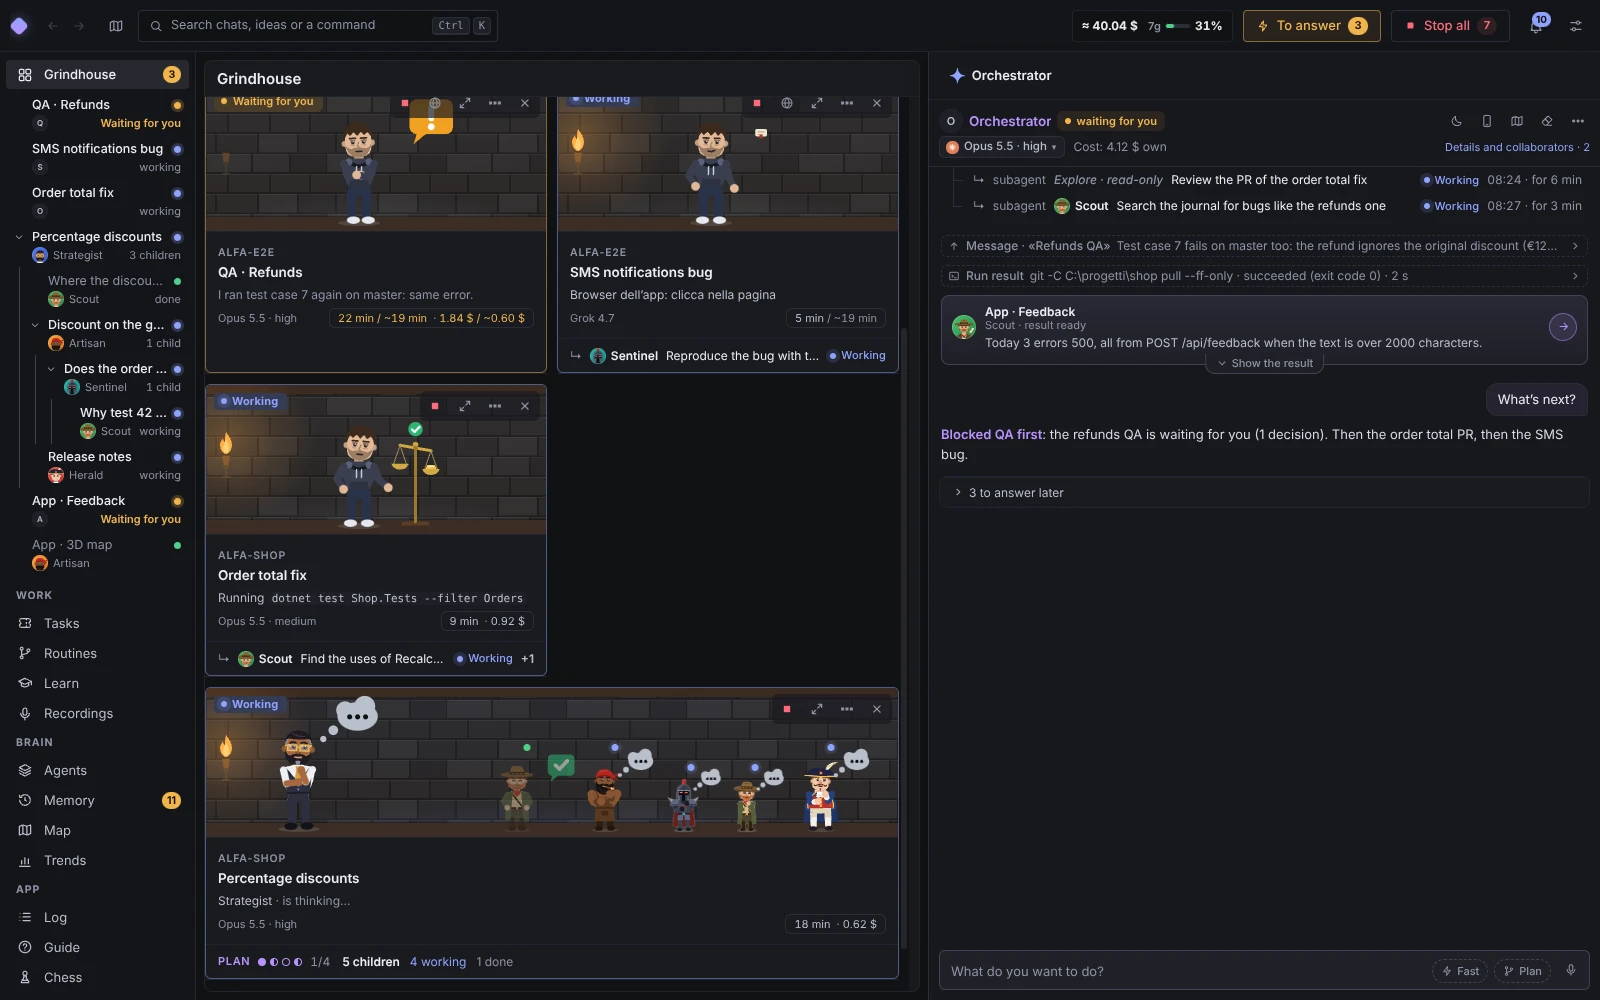
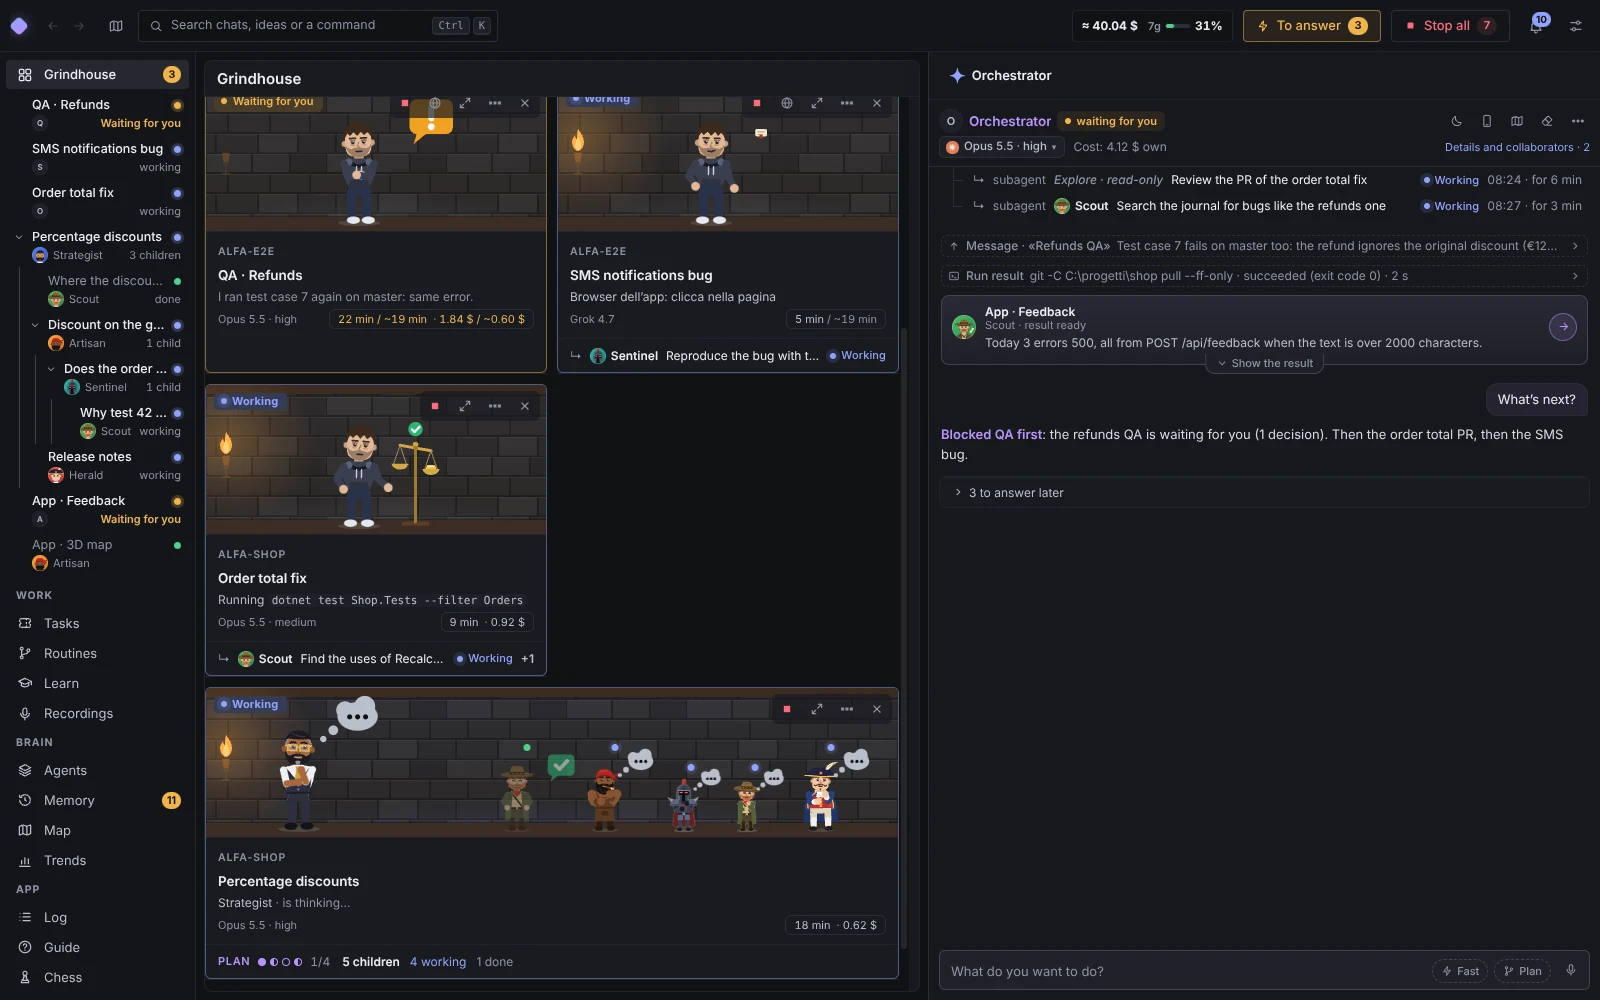
fix(grindhouse): hold a helper's busy flag and the team counts, keep the foot's buttons whole
- a helper's person no longer remounts during a short stop
- the bench foot's counts are held like each helper's state
- the auto-close notice waits while the bench holds its state
- error and queued bars keep their width in the foot, the rest ellipsize
- long name tags ellipsize; the rename input fits the plate

diff --git a/src/renderer/styles/agent-strips.css b/src/renderer/styles/agent-strips.css
@@ -300,7 +300,8 @@ html[data-hidden] .bench-stage::after { animation-play-state:paused; }
 .bench-tag { all:unset; box-sizing:border-box; position:absolute; left:50%; bottom:calc(100% - 6px); z-index:5; display:inline-flex; align-items:center; gap:6px; height:26px; padding:0 9px 0 8px; border-radius:var(--r-m);
   background:var(--surface); border:1px solid var(--border-3); box-shadow:0 6px 16px rgb(0 0 0 / .28); font:600 11.5px var(--font); color:var(--text); white-space:nowrap; cursor:pointer;
   opacity:0; pointer-events:none; transform:translate(-50%, 4px); transition:opacity 110ms var(--ease), transform 110ms var(--ease); }
-.bench-tag > span { color:var(--text-3); font-weight:500; }
+.bench-tag > b { min-width:0; max-width:150px; overflow:hidden; text-overflow:ellipsis; }
+.bench-tag > span { flex:none; color:var(--text-3); font-weight:500; }
 .bench-tag > i { font-style:normal; color:var(--accent); font-size:13px; margin-left:1px; }
 .bench-tag:hover { border-color:var(--accent); }
 .bench-tag:focus-visible { outline:2px solid var(--focus); outline-offset:1px; }
@@ -321,7 +322,7 @@ html[data-hidden] .bench-stage::after { animation-play-state:paused; }
 .bench-plate { flex:none; height:104px; box-sizing:border-box; display:flex; flex-direction:column; gap:2px; padding:10px 12px 8px; min-width:0; overflow:hidden; }
 .bench-prow { display:flex; align-items:center; gap:8px; min-width:0; height:16px; margin-bottom:2px; }
 .bench-area { flex:1; min-width:0; font:600 10.5px var(--font); letter-spacing:.08em; text-transform:uppercase; color:var(--text-3); overflow:hidden; text-overflow:ellipsis; white-space:nowrap; }
-.bench-plate .th-title { flex:none; min-width:0; max-width:100%; height:20px; font-size:13.5px; font-weight:600; margin:0; overflow:hidden; white-space:nowrap; text-overflow:ellipsis; }
+.bench-plate .th-title { flex:none; min-width:0; max-width:100%; height:24px; line-height:24px; font-size:13.5px; font-weight:600; margin:0; overflow:hidden; white-space:nowrap; text-overflow:ellipsis; }
 .bench-plate .th-title > .strip-name { display:block; max-width:100%; overflow:hidden; text-overflow:ellipsis; white-space:nowrap; }
 .bench-now { display:flex; min-width:0; height:18px; align-items:center; font-size:12px; color:var(--text-3); white-space:nowrap; overflow:hidden; }
 .bench-now > .bench-role { flex:none; color:var(--text-2); }
@@ -334,8 +335,8 @@ html[data-hidden] .bench-stage::after { animation-play-state:paused; }
 /* ── the foot: one line, the same height on every bench ── */
 .bench-foot { flex:none; height:34px; box-sizing:border-box; display:flex; align-items:center; gap:12px; padding:0 12px; min-width:0; overflow:hidden; white-space:nowrap; border-top:1px solid var(--border); font-size:12px; color:var(--text-3); }
 .bench-foot:empty { border-top-color:transparent; }
-.bench-foot > * { flex:none; min-width:0; }
-.bench-foot > :is(.queued-bar, .error-bar) { flex:1 1 auto; margin:0; padding:0 0 0 2px; height:26px; background:none; gap:8px; font-size:12px; }
+.bench-foot > * { flex:0 1 auto; min-width:0; overflow:hidden; text-overflow:ellipsis; }
+.bench-foot > :is(.queued-bar, .error-bar) { flex:none; max-width:100%; overflow:visible; margin:0; padding:0 0 0 2px; height:26px; background:none; gap:8px; font-size:12px; }
 .bench-foot > .error-bar > span { min-width:0; overflow:hidden; text-overflow:ellipsis; white-space:nowrap; }
 .bench-foot > :is(.agent-waiting, .agent-autoclose) { margin:0; padding:0; border:0; background:none; flex-wrap:nowrap; font-size:12px; }
 .bench-foot > .sp-card.is-compact { margin:0; padding:0; border:0; background:none; }

diff --git a/src/renderer/components/BenchKids.tsx b/src/renderer/components/BenchKids.tsx
@@ -55,6 +55,7 @@ function depthOf(k: ChatSummary, root: string, team: readonly ChatSummary[]): nu
 /** One helper: its person (a pat at a click), its dot, and its name tag that opens its chat. */
 function Helper({ kid, depth }: { kid: ChatSummary; depth: number }) {
   const state = useSteady(childState(kid), working, s => s === 'err' || s === 'blocked');
+  const busy = useSteady(isBusy(kid), b => b); // held like the state, or a short stop would remount the person
   const name = kid.agent?.name || kid.title, tone = kidTone(state), live = working(state) || state === 'wait';
   return <span className={`bench-helper${depth > 1 ? ' is-grand' : ''}${live ? ' is-live' : ''}`} data-testid={`bench-helper-${kid.id}`} data-child-state={state} data-depth={depth}
     onClick={e => { e.stopPropagation(); open(kid.id); }}>
@@ -64,7 +65,7 @@ function Helper({ kid, depth }: { kid: ChatSummary; depth: number }) {
     </button>
     <span className={`bench-dot bench-head-dot tone-${tone}`} aria-hidden="true" />
     <StripFace chatId={kid.id} avatar={kid.agent?.avatar} name={name} tone={tone} size={36} height={depth > 1 ? 62 : 82}
-      waitsUser={state === 'wait'} error={state === 'err' || state === 'blocked'} busy={isBusy(kid) && working(state)} done={state === 'done' || state === 'partial'} pending={working(state)} />
+      waitsUser={state === 'wait'} error={state === 'err' || state === 'blocked'} busy={busy && working(state)} done={state === 'done' || state === 'partial'} pending={working(state)} />
   </span>;
 }
 
@@ -72,8 +73,9 @@ function Helper({ kid, depth }: { kid: ChatSummary; depth: number }) {
 export function BenchKidsSum({ chatId }: { chatId: string }) {
   const team = useTeam(chatId);
   const limit = useApp(s => s.chats[chatId]?.limitHit);
+  // held like each helper's state: a helper's short stop does not move the counts
+  const { run, wait, stuck, done } = useSteady(kidCounts(team.map(k => childState(k))), c => c.run > 0, c => c.stuck > 0);
   if (!team.length) return null;
-  const { run, wait, stuck, done } = kidCounts(team.map(k => childState(k)));
   return <span className="bench-kids-sum" data-testid={`bench-kids-sum-${chatId}`} data-run={run}>
     <b>{t('tree.kids', { n: team.length })}</b>
     {run > 0 && <span className="is-run">{t('tree.kidsRun', { n: run })}</span>}

diff --git a/src/renderer/components/ChatTile.tsx b/src/renderer/components/ChatTile.tsx
@@ -159,7 +159,7 @@ export const ChatTile = memo(function ChatTile({ chatId, index, focus, embedded 
     v => !!v.chat && isBusy(v.chat) && v.chat.state !== 'waiting' && !v.reqs.length, v => v.chat?.state === 'error');
   if (!chat) return null;
   const sc = shown.chat ?? chat, shownReqs = shown.reqs, waitRow = shown.waitRow;
-  const busyShown = isBusy(sc);
+  const busyShown = isBusy(sc), holding = sc !== chat;
   const compact = !expanded || !focus && !embedded && size.height > 0 && size.height < COMPACT_TILE_H;
   const busy = isBusy(chat);
   const st = stateInfo(sc);
@@ -295,13 +295,13 @@ export const ChatTile = memo(function ChatTile({ chatId, index, focus, embedded 
       {bench ? <div className="bench-foot" data-testid={`bench-foot-${chatId}`}>
         {/* a closed bench is always as tall as the others (ADR 0312): what would grow it is one line here, by importance */}
         {queuedBar}{errorBar}
-        <AutoCloseNotice chatId={chatId} said={first ? userWait : stateText === waitText} />
+        {!holding && <AutoCloseNotice chatId={chatId} said={first ? userWait : stateText === waitText} />}
         {chat.plan && !['asking', 'revising', 'proposed'].includes(chat.plan.phase) && <StrategyPanel chat={chat} question={planAsk} compact />}
         <BenchKidsSum chatId={chatId} />
         <ChildStrips chatId={chatId} compact />
       </div> : <>
       {/* the wait is said once (#411): by the head (its button for a wait of the user's, else its state words) or here; an embedded tile has no head */}
-      <AutoCloseNotice chatId={chatId} said={!embedded && (first ? userWait : stateText === waitText)} />
+      {!holding && <AutoCloseNotice chatId={chatId} said={!embedded && (first ? userWait : stateText === waitText)} />}
       {/* in full screen the subagents at work stay in sight, as under the strip in the Grindhouse */}
       {focus && <ChildStrips chatId={chatId} />}
       {chat.plan && !['asking', 'revising', 'proposed'].includes(chat.plan.phase) && <StrategyPanel chat={chat} question={planAsk} />}

diff --git a/test/e2e/sprite-touch.spec.ts b/test/e2e/sprite-touch.spec.ts
@@ -36,7 +36,6 @@ test('the little person reacts to a click: a pat, a whack, and the run keeps the
     await person.click({ button: 'right' });
     await expect.poll(seen).toEqual(['pat', 'whack']);
     // no bubble in the Grindhouse (ADR 0312)
-    await page.waitForTimeout(1500);
     expect(await said()).toEqual([]);
     await expect(person).toHaveAttribute('title', /Bastonata data/);
     // the clicks stayed on the person: the strip is still closed, no menu opened
